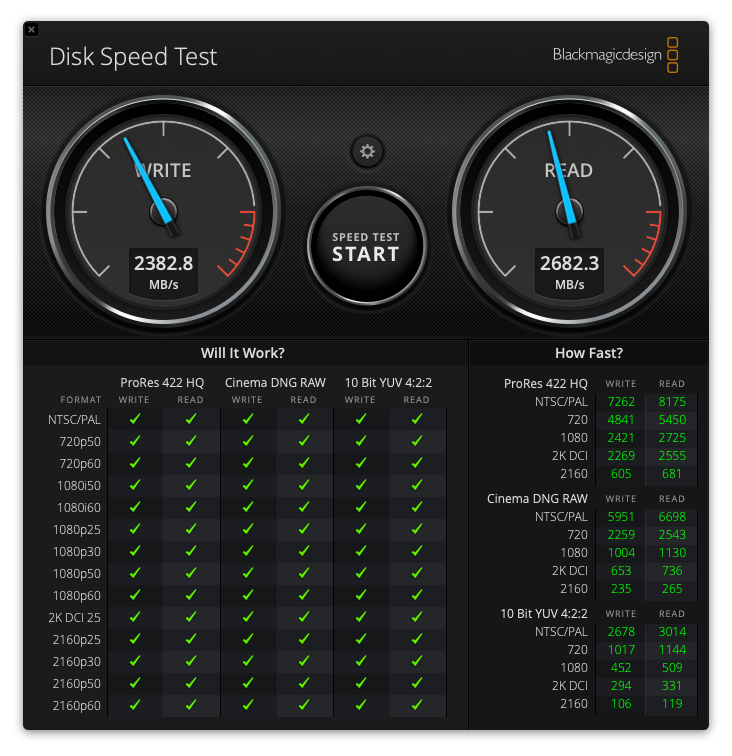
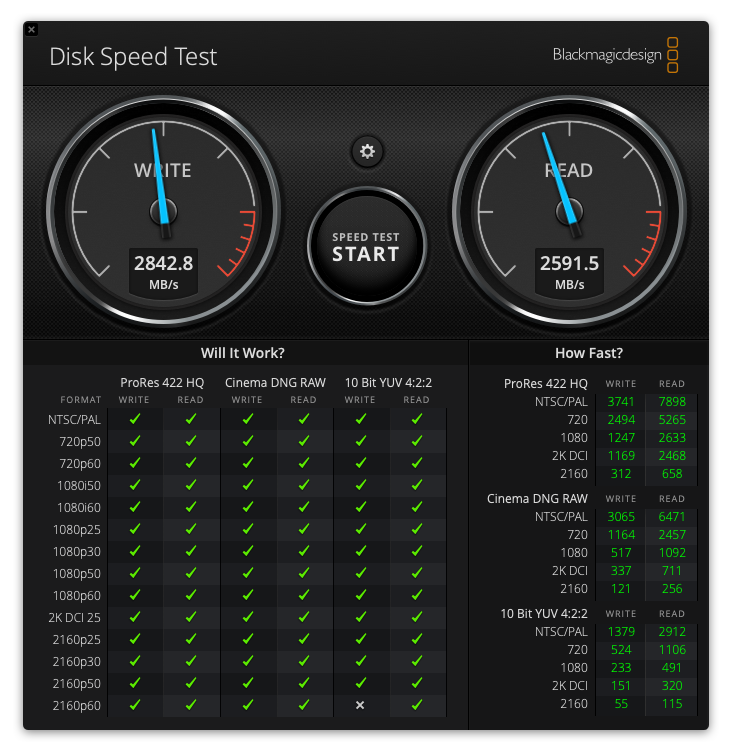
monterey update

diff --git a/README.md b/README.md
@@ -17,6 +17,8 @@
 
 # Changelog
 
+- 2021/12/23: Updated to macOS 12.1 with OpenCore 0.7.6
+  - Changed the macOS drive a WD_BLACK because of the TRIM issues with the 970 EVO (see https://github.com/dortania/bugtracker/issues/192)
 - 2021/05/23: Updated to OpenCore 0.6.8 and macOS 11.3.1
 - 2021/04/11: Updated to OpenCore 0.6.8 and macOS 11.2.3
 - 2021/02/02: Updated to OpenCore 0.6.6 and macOS 11.2
@@ -38,66 +40,59 @@ Feel free to re-use this configuration if you have the same CPU + motherboard co
 [PCPartPicker Part List](https://pcpartpicker.com/list/JbnZy4)
 
 <details>
-  <a href="https://pcpartpicker.com/list/JbnZy4">PCPartPicker Part List</a>
-  <table class="pcpp-part-list">
-    <thead>
-      <tr>
-        <th>Type</th>
-        <th>Item</th>
-      </tr>
-    </thead>
-    <tbody>
-      <tr>
-        <td class="pcpp-part-list-type">CPU</td>
-        <td class="pcpp-part-list-item"><a href="https://pcpartpicker.com/product/jHZFf7/intel-core-i9-9900k-36ghz-8-core-processor-bx80684i99900k">Intel Core i9-9900K 3.6 GHz 8-Core Processor</a></td>
-      </tr>
-      <tr>
-        <td class="pcpp-part-list-type">CPU Cooler</td>
-        <td class="pcpp-part-list-item"><a href="https://pcpartpicker.com/product/PVfFf7/nzxt-kraken-x53-7311-cfm-liquid-cpu-cooler-rl-krx53-01">NZXT Kraken X53 73.11 CFM Liquid CPU Cooler</a></td>
-      </tr>
-      <tr>
-        <td class="pcpp-part-list-type">Motherboard</td>
-        <td class="pcpp-part-list-item"><a href="https://pcpartpicker.com/product/Tmprxr/asus-rog-strix-z390-i-gaming-mini-itx-lga1151-motherboard-rog-strix-z390-i-gaming">Asus ROG STRIX Z390-I GAMING Mini ITX LGA1151 Motherboard</a></td>
-      </tr>
-      <tr>
-        <td class="pcpp-part-list-type">Memory</td>
-        <td class="pcpp-part-list-item"><a href="https://pcpartpicker.com/product/L7qhP6/corsair-vengeance-rgb-pro-32gb-2-x-16gb-ddr4-3200-memory-cmw32gx4m2c3200c16w">Corsair Vengeance RGB Pro 32 GB (2 x 16 GB) DDR4-3200 CL16 Memory</a></td>
-      </tr>
-      <tr>
-        <td class="pcpp-part-list-type">Storage</td>
-        <td class="pcpp-part-list-item"><a href="https://pcpartpicker.com/product/JLdxFT/samsung-970-evo-10tb-m2-2280-solid-state-drive-mz-v7e1t0baw">Samsung 970 Evo 1 TB M.2-2280 NVME Solid State Drive</a></td>
-      </tr>
-      <tr>
-        <td class="pcpp-part-list-type">Storage</td>
-        <td class="pcpp-part-list-item"><a href="https://pcpartpicker.com/product/JLdxFT/samsung-970-evo-10tb-m2-2280-solid-state-drive-mz-v7e1t0baw">Samsung 970 Evo 1 TB M.2-2280 NVME Solid State Drive</a></td>
-      </tr>
-      <tr>
-        <td class="pcpp-part-list-type">Case</td>
-        <td class="pcpp-part-list-item"><a href="https://pcpartpicker.com/product/x7hmP6/nzxt-h210-mini-itx-tower-case-ca-h210b-w1">NZXT H210 Mini ITX Tower Case</a></td>
-      </tr>
-      <tr>
-        <td class="pcpp-part-list-type">Power Supply</td>
-        <td class="pcpp-part-list-item"><a href="https://pcpartpicker.com/product/MfJwrH/evga-power-supply-220g20750xr">EVGA G2 750 W 80+ Gold Certified Fully Modular ATX Power Supply</a></td>
-      </tr>
-      <tr>
-        <td class="pcpp-part-list-type">Custom</td>
-        <td class="pcpp-part-list-item"><a href="https://pcpartpicker.com/product/fM4NnQ/oem-dell-wireless-dw1560-80211ac-broadcom-bcm94352z-m2-ngff-wifi-card-6xryc">OEM Dell Wireless DW1560 802.11ac Broadcom BCM94352Z M.2 NGFF WIFI Card 6XRYC</a></td>
-      </tr>
-      <tr>
-        <td class="pcpp-part-list-type">Video Card</td>
-        <td class="pcpp-part-list-item">ASUS AMD Dual Radeon RX 5500 XT</td>
-      </tr>
-      <tr>
-        <td></td>
-        <td class="pcpp-part-list-price-note">Prices include shipping, taxes, rebates, and discounts</td>
-      </tr>
-      <tr>
-        <td></td>
-        <td class="pcpp-part-list-price-note">Generated by <a href="https://pcpartpicker.com">PCPartPicker</a> 2021-05-23 03:43 EDT-0400</td>
-        <td></td>
-      </tr>
-    </tbody>
-  </table>
+  <a href="https://pcpartpicker.com/list/DjsmdD">PCPartPicker Part List</a>
+<table class="pcpp-part-list">
+  <thead>
+    <tr>
+      <th>Type</th>
+      <th>Item</th>
+    </tr>
+  </thead>
+  <tbody>
+    <tr>
+      <td class="pcpp-part-list-type">CPU</td>
+      <td class="pcpp-part-list-item"><a href="https://pcpartpicker.com/product/jHZFf7/intel-core-i9-9900k-36ghz-8-core-processor-bx80684i99900k">Intel Core i9-9900K 3.6 GHz 8-Core Processor</a></td>
+    </tr>
+    <tr>
+      <td class="pcpp-part-list-type">CPU Cooler</td>
+      <td class="pcpp-part-list-item"><a href="https://pcpartpicker.com/product/PVfFf7/nzxt-kraken-x53-7311-cfm-liquid-cpu-cooler-rl-krx53-01">NZXT Kraken X53 73.11 CFM Liquid CPU Cooler</a></td>
+    </tr>
+    <tr>
+      <td class="pcpp-part-list-type">Motherboard</td>
+      <td class="pcpp-part-list-item"><a href="https://pcpartpicker.com/product/Tmprxr/asus-rog-strix-z390-i-gaming-mini-itx-lga1151-motherboard-rog-strix-z390-i-gaming">Asus ROG STRIX Z390-I GAMING Mini ITX LGA1151 Motherboard</a></td>
+    <tr>
+      <td class="pcpp-part-list-type">Memory</td>
+      <td class="pcpp-part-list-item"><a href="https://pcpartpicker.com/product/L7qhP6/corsair-vengeance-rgb-pro-32gb-2-x-16gb-ddr4-3200-memory-cmw32gx4m2c3200c16w">Corsair Vengeance RGB Pro 32 GB (2 x 16 GB) DDR4-3200 CL16 Memory</a></td>
+    </tr>
+    <tr>
+      <td class="pcpp-part-list-type">Storage</td>
+      <td class="pcpp-part-list-item"><a href="https://pcpartpicker.com/product/JLdxFT/samsung-970-evo-10tb-m2-2280-solid-state-drive-mz-v7e1t0baw">Samsung 970 Evo 1 TB M.2-2280 NVME Solid State Drive</a></td>
+    </tr>
+    <tr>
+      <td class="pcpp-part-list-type">Storage</td>
+      <td class="pcpp-part-list-item"><a href="https://pcpartpicker.com/product/Fkprxr/western-digital-wd_black-sn750-2-tb-m2-2280-nvme-solid-state-drive-wds200t3x0c">Western Digital WD_BLACK SN750 2 TB M.2-2280 NVME Solid State Drive</a></td>
+    </tr>
+    <tr>
+      <td class="pcpp-part-list-type">Video Card</td>
+      <td class="pcpp-part-list-item"><a href="https://pcpartpicker.com/product/bG2WGX/amd-radeon-rx-6800-16-gb-video-card-100-438378">AMD Radeon RX 6800 16 GB Video Card</a></td>
+    <tr>
+      <td class="pcpp-part-list-type">Case</td>
+      <td class="pcpp-part-list-item"><a href="https://pcpartpicker.com/product/x7hmP6/nzxt-h210-mini-itx-tower-case-ca-h210b-w1">NZXT H210 Mini ITX Tower Case</a></td>
+    </tr>
+    <tr>
+      <td class="pcpp-part-list-type">Power Supply</td>
+      <td class="pcpp-part-list-item"><a href="https://pcpartpicker.com/product/MfJwrH/evga-power-supply-220g20750xr">EVGA G2 750 W 80+ Gold Certified Fully Modular ATX Power Supply</a></td>
+    <tr>
+      <td class="pcpp-part-list-type">Custom</td>
+      <td class="pcpp-part-list-item"><a href="https://pcpartpicker.com/product/fM4NnQ/oem-dell-wireless-dw1560-80211ac-broadcom-bcm94352z-m2-ngff-wifi-card-6xryc">OEM Dell Wireless DW1560 802.11ac Broadcom BCM94352Z M.2 NGFF WIFI Card 6XRYC</a></td>
+    </tr>
+    <tr>
+      <td></td>
+      <td class="pcpp-part-list-price-note">Generated by <a href="https://pcpartpicker.com">PCPartPicker</a> 2021-12-24 09:36 EST-0500</td>
+      <td></td>
+    </tr>
+  </tbody>
+</table>
 </details>
 
 ## What works
